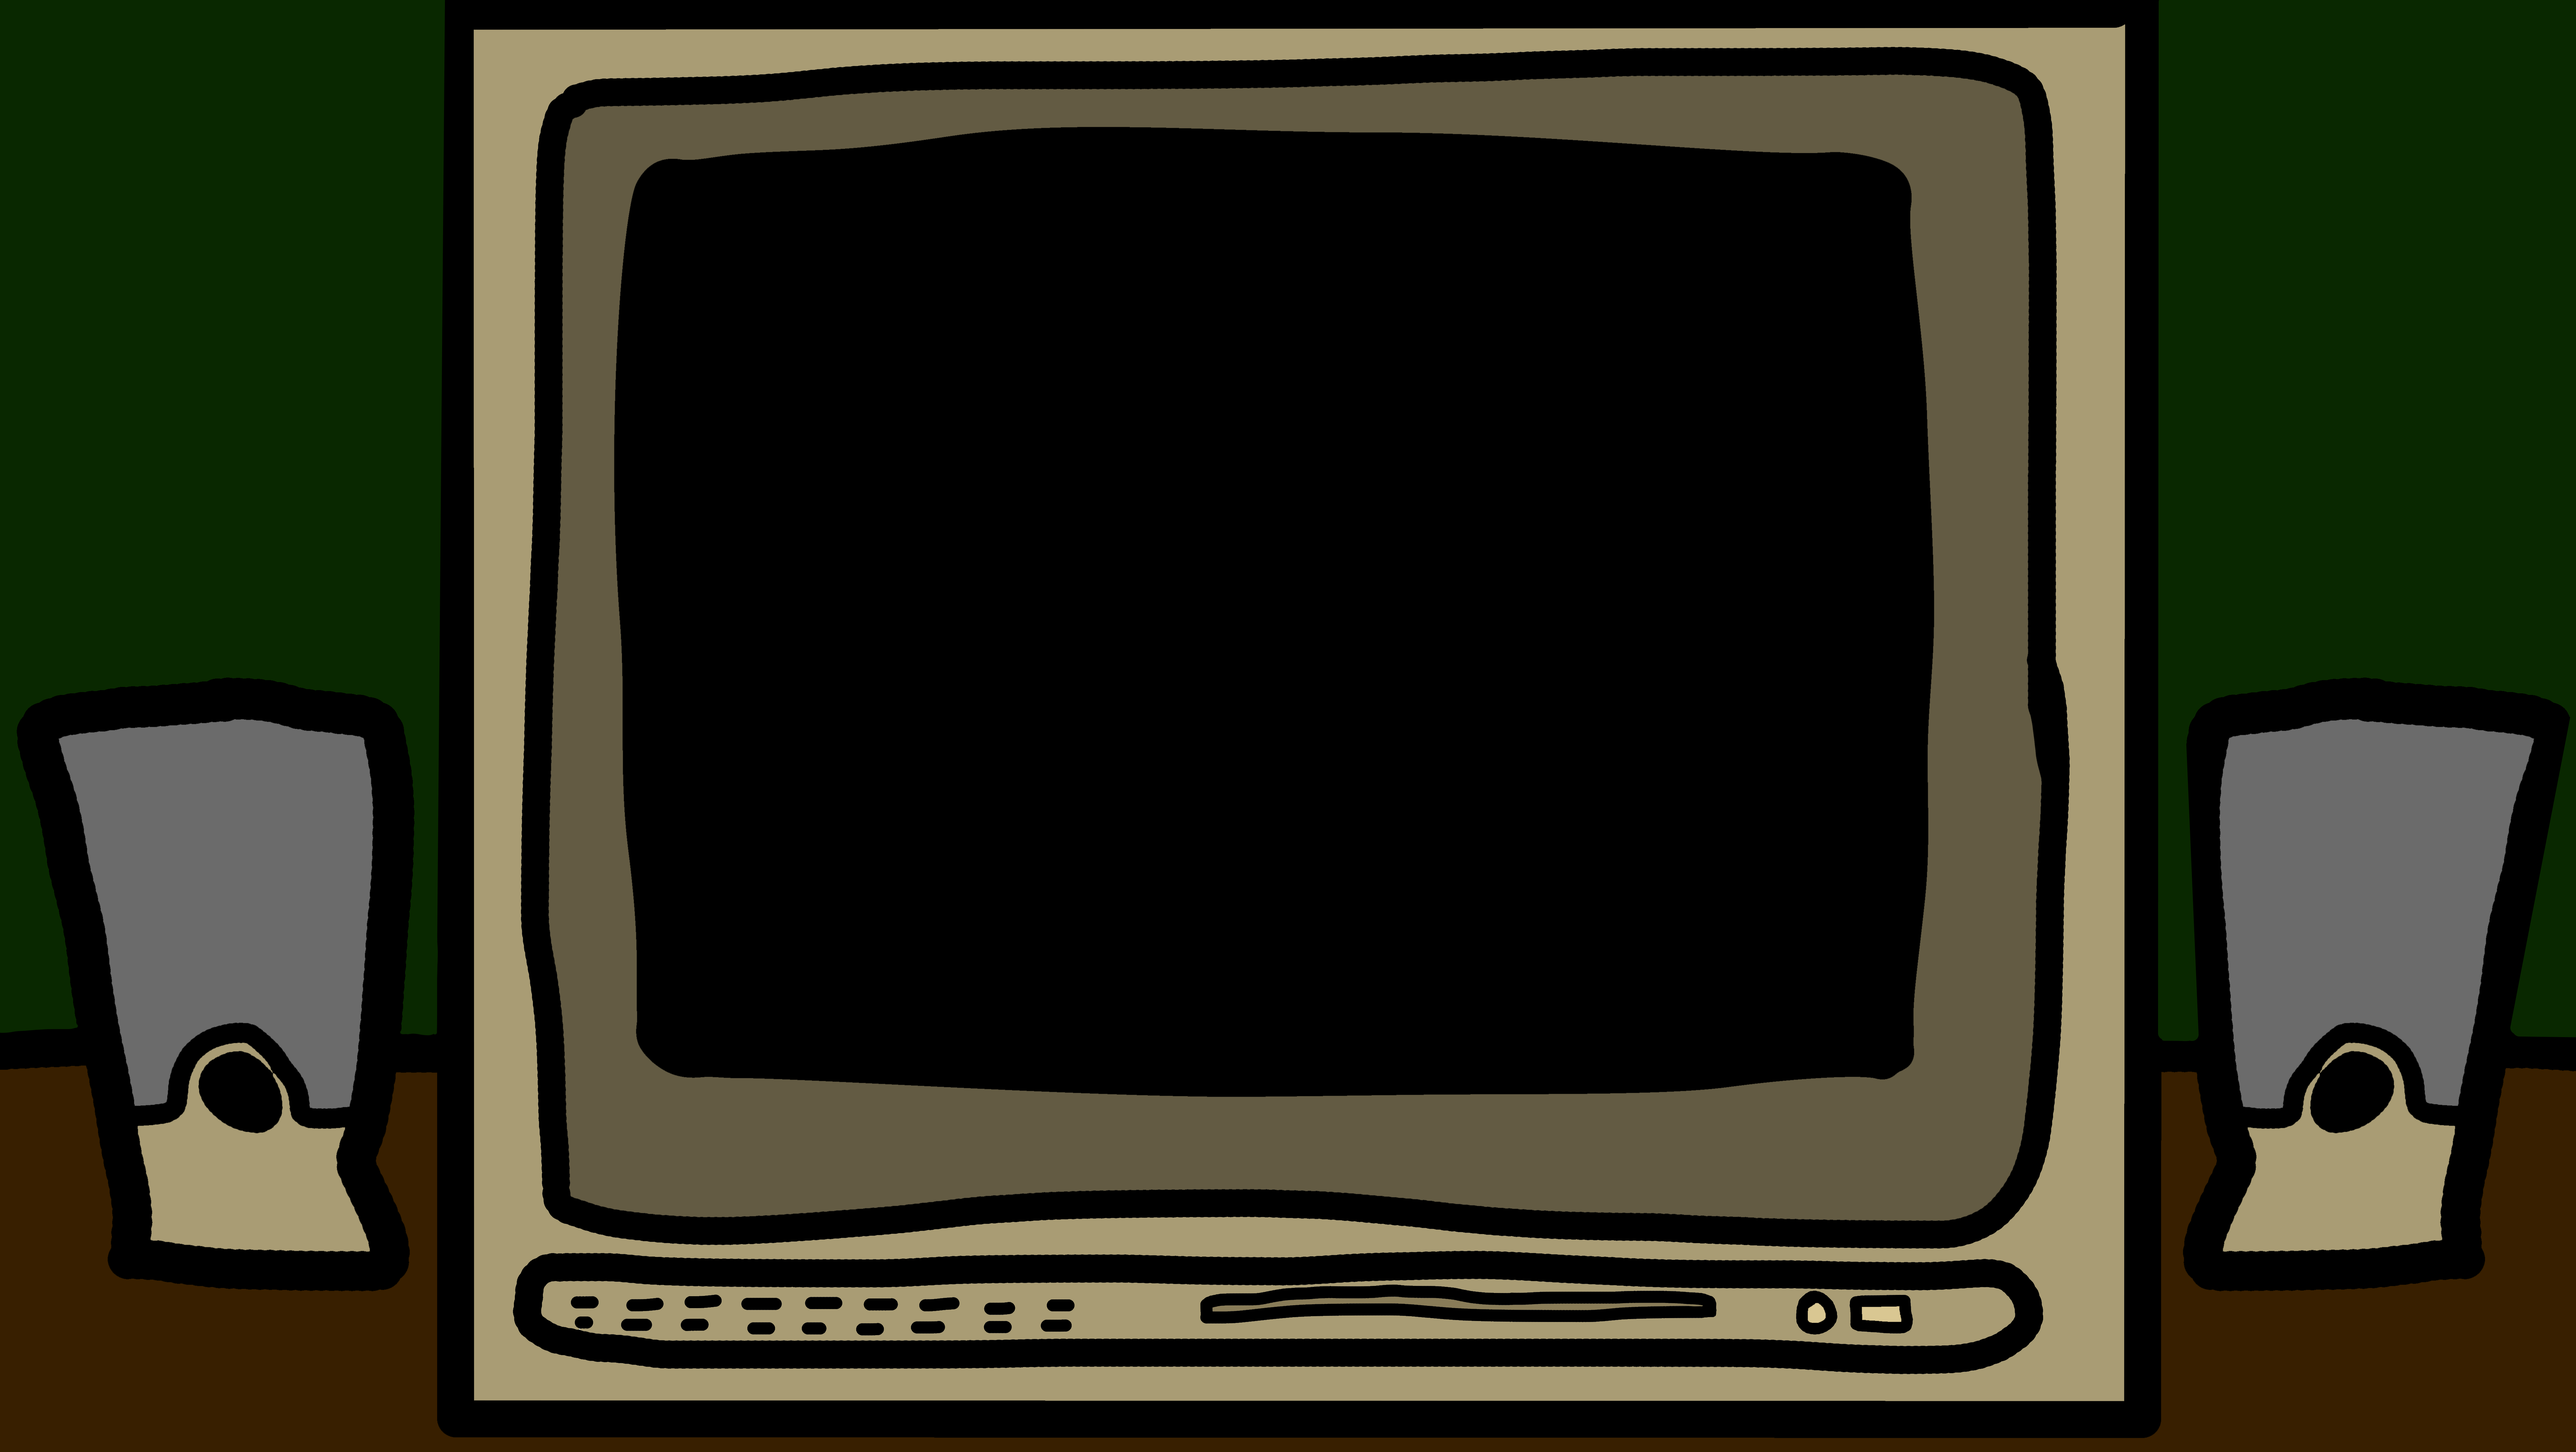
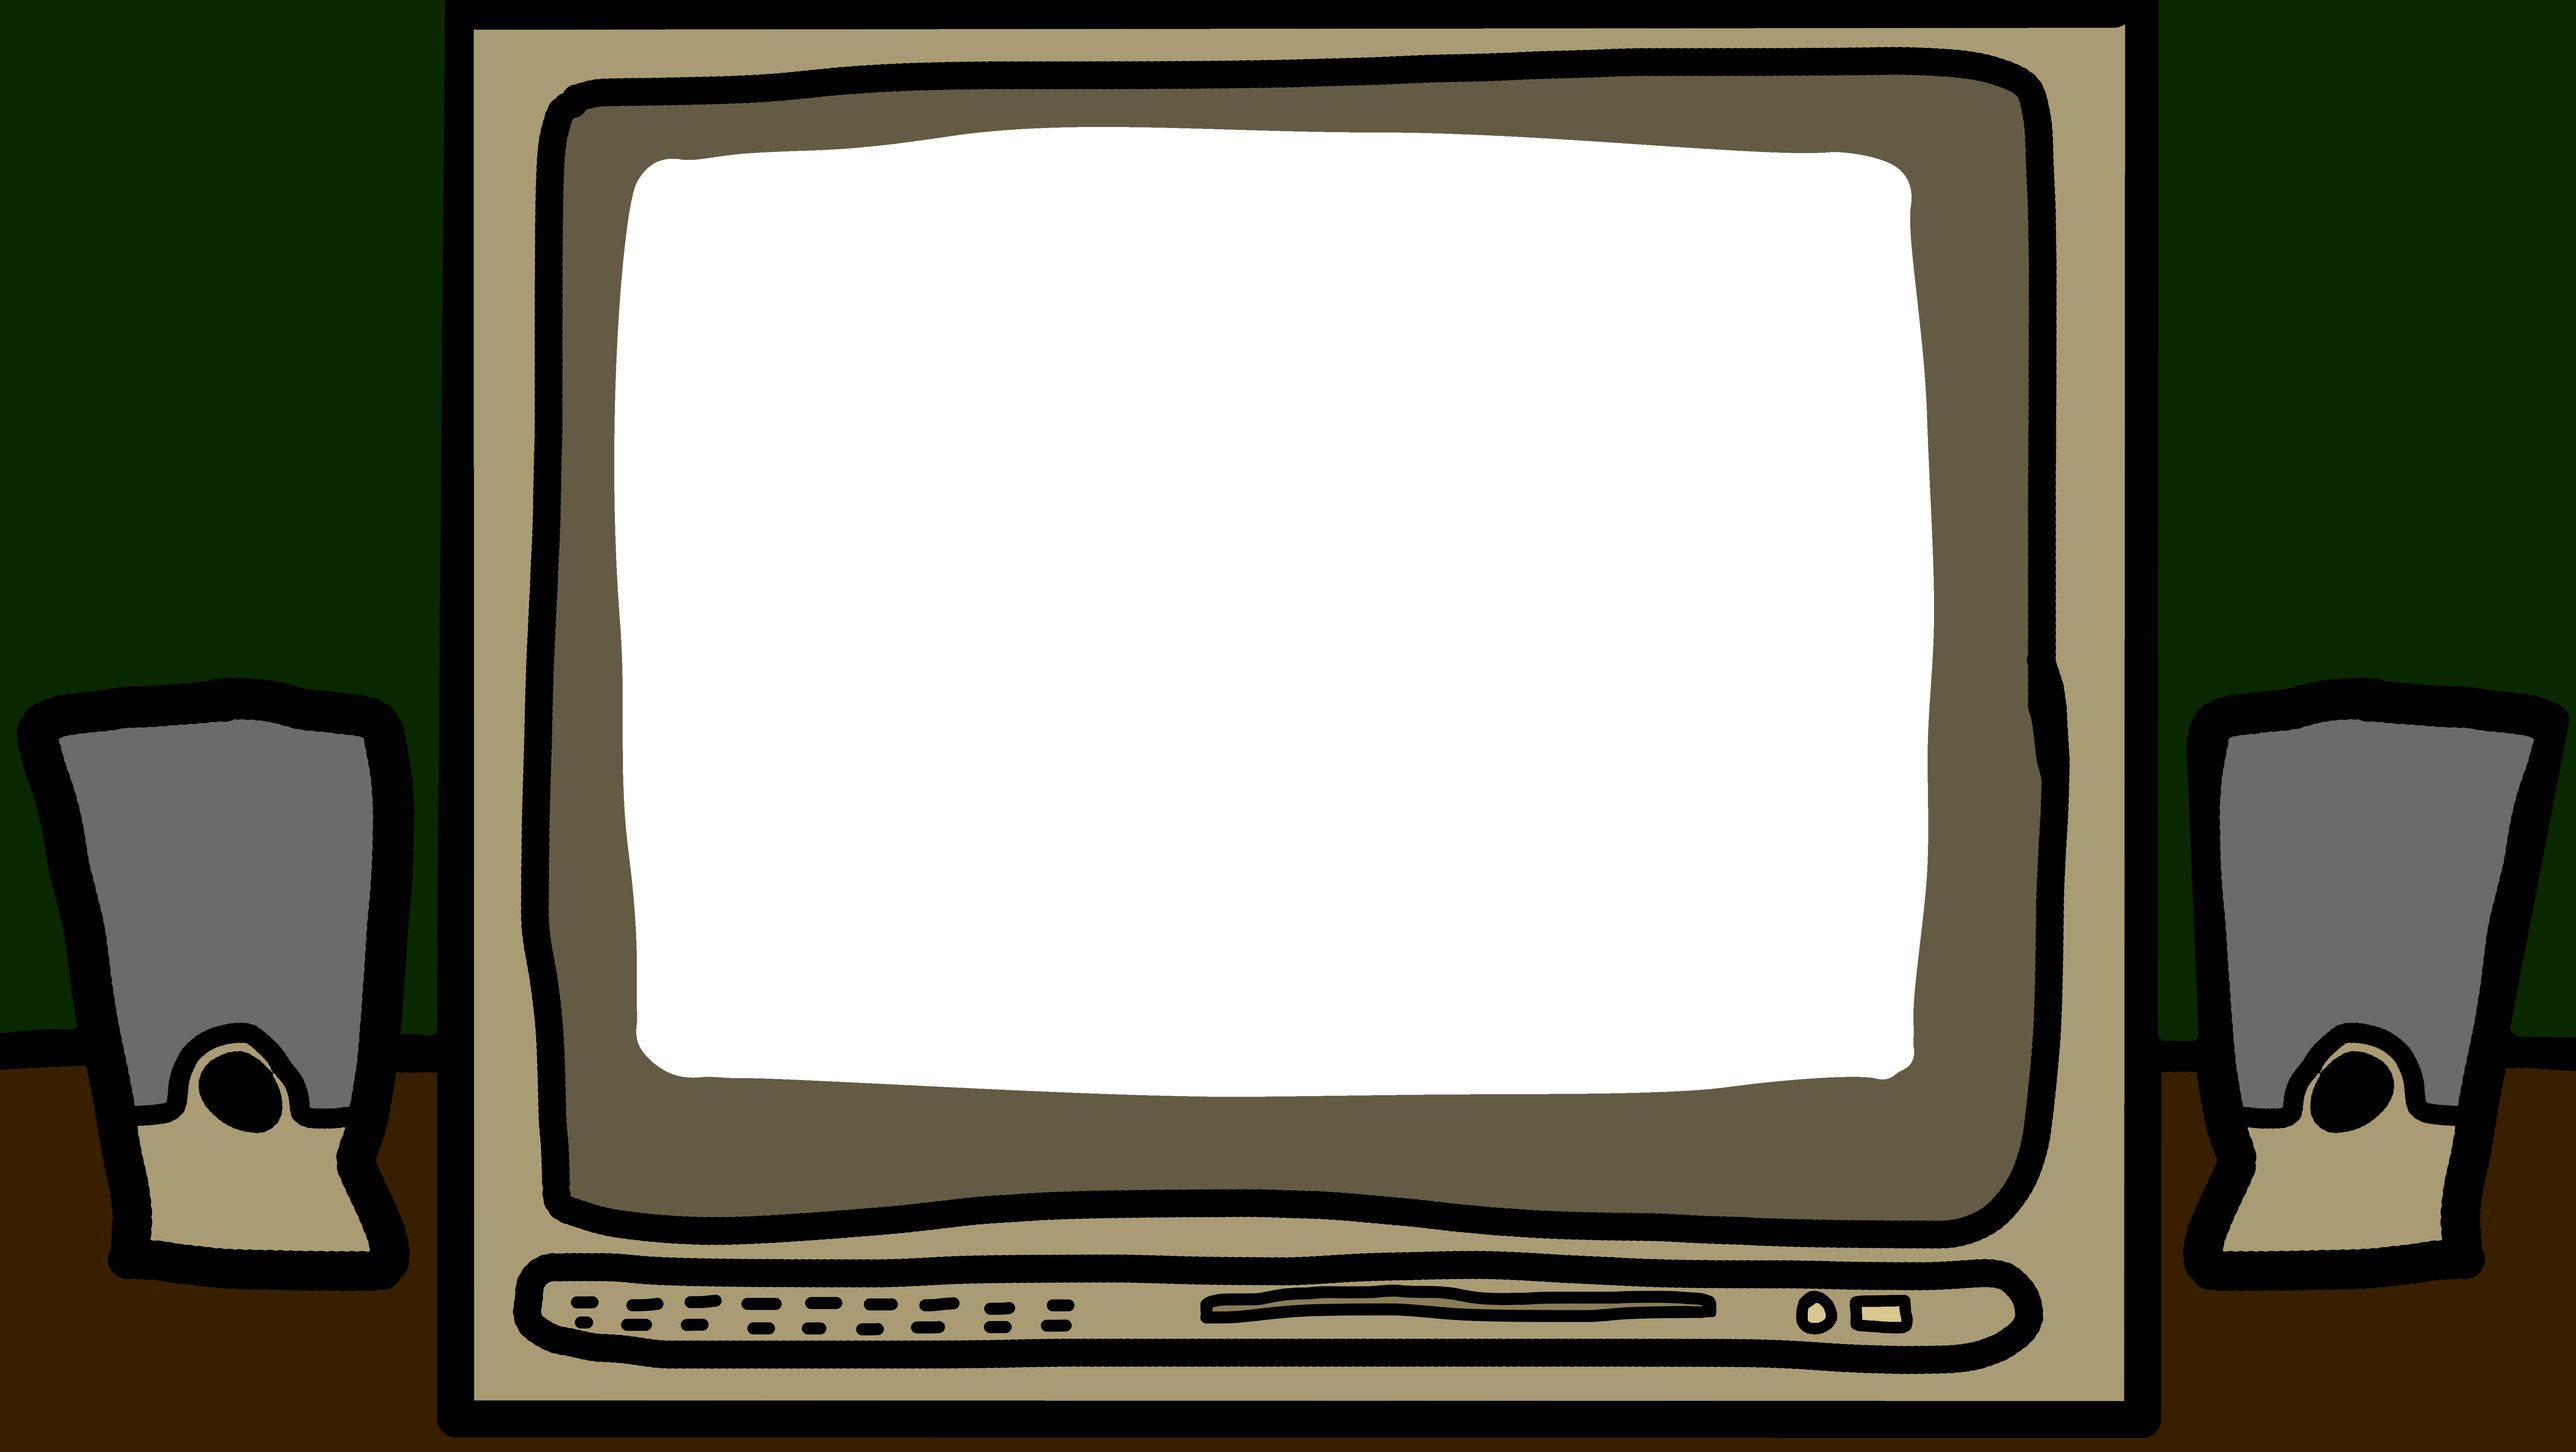
Reframe forums TV art in front with a black CRT screen and wiggle filter
Swaps in new bezel art with a transparent screen cutout, moves it above
the terminal so it frames the widget instead of sitting behind it
(pointer-events already off, so clicks still pass through), and gives
the terminal an opaque black backdrop to fill that cutout. Adds an
animated SVG displacement filter on the scrollable content so the CRT
static appears to wiggle the widget's lines underneath it. Also aligns
the forum scroll rail's top with the header logo instead of the nav,
and shortens the videos.html channel-switch static from 1.3s to 1s.

diff --git a/forums.html b/forums.html
@@ -20,9 +20,9 @@
 <link rel="apple-touch-icon" sizes="180x180" href="/apple-touch-icon.png">
 <link rel="icon" type="image/png" sizes="32x32" href="/favicon-32x32.png">
 <link rel="icon" type="image/png" sizes="16x16" href="/favicon-16x16.png">
-<link rel="preload" as="image" href="/forums-page-desktop.png" media="(min-width: 861px)">
-<link rel="preload" as="image" href="/forums-page-mobile.png?v=2" media="(max-width: 860px)">
-<link rel="stylesheet" href="/forums.css?v=20">
+<link rel="preload" as="image" href="/forums-page-desktop.png?v=2" media="(min-width: 861px)">
+<link rel="preload" as="image" href="/forums-page-mobile.png?v=3" media="(max-width: 860px)">
+<link rel="stylesheet" href="/forums.css?v=21">
 <style>
   * { box-sizing: border-box; }
   html, body { position: fixed; inset: 0; width: 100%; height: 100%; margin: 0; overflow: hidden; background: #032d00; }
@@ -32,10 +32,14 @@
 </head>
 <body>
   <main class="forums-scene" aria-label="KNOBSOCK forums">
-    <picture>
-      <source media="(max-width: 860px)" srcset="/forums-page-mobile.png?v=2">
-      <img class="scene-art" src="/forums-page-desktop.png" alt="">
-    </picture>
+    <svg width="0" height="0" style="position:absolute" aria-hidden="true" focusable="false">
+      <filter id="crtWiggle" x="-20%" y="-20%" width="140%" height="140%" color-interpolation-filters="sRGB">
+        <feTurbulence type="fractalNoise" numOctaves="2" seed="7" result="crtNoise">
+          <animate attributeName="baseFrequency" dur="7s" values="0.006 0.09;0.01 0.12;0.006 0.09" repeatCount="indefinite"/>
+        </feTurbulence>
+        <feDisplacementMap in="SourceGraphic" in2="crtNoise" scale="3" xChannelSelector="R" yChannelSelector="G"/>
+      </filter>
+    </svg>
     <section id="terminal" aria-label="Forum computer screen">
       <div id="forumScroll" tabindex="0">
         <div class="terminal-content">
@@ -52,9 +56,13 @@
       </div>
       <div id="scrollRail"><button type="button" id="scrollUp" aria-label="Scroll forum up">▲</button><div id="scrollTrack"><div id="scrollThumb" role="scrollbar" tabindex="0" aria-label="Forum scroll" aria-controls="forumScroll" aria-orientation="vertical" aria-valuemin="0" aria-valuemax="100" aria-valuenow="0"></div></div><button type="button" id="scrollDown" aria-label="Scroll forum down">▼</button></div>
     </section>
+    <picture>
+      <source media="(max-width: 860px)" srcset="/forums-page-mobile.png?v=3">
+      <img class="scene-art" src="/forums-page-desktop.png?v=2" alt="">
+    </picture>
   </main>
 <script src="https://www.gstatic.com/firebasejs/10.13.2/firebase-app-compat.js"></script>
 <script src="https://www.gstatic.com/firebasejs/10.13.2/firebase-firestore-compat.js"></script>
-<script src="/forums.js?v=11"></script>
+<script src="/forums.js?v=12"></script>
 </body>
 </html>

diff --git a/forums.js b/forums.js
@@ -205,13 +205,13 @@
   let railHideTimer, railHovered = false, railDragging = false;
   function positionScrollRail() {
     const terminal = $("terminal");
-    const nav = terminal && terminal.querySelector(".forum-nav");
-    if (!terminal || !nav) return;
-    // Keep the arrow/track column aligned with the green rule beneath the
-    // Boards / Recent / Rules navigation, regardless of art scaling. offsetTop
-    // stays stable after a user scrolls the inner panel; a viewport rect does
-    // not, which had let the rail retain its old position on some phones.
-    const top = Math.max(0, nav.offsetTop + nav.offsetHeight);
+    const logo = terminal && terminal.querySelector(".forum-logo");
+    if (!terminal || !logo) return;
+    // Keep the arrow/track column aligned with the top of the header logo,
+    // regardless of art scaling. offsetTop stays stable after a user scrolls
+    // the inner panel; a viewport rect does not, which had let the rail
+    // retain its old position on some phones.
+    const top = Math.max(0, logo.offsetTop);
     rail.style.marginTop = Math.round(top) + "px";
   }
   function hideRailSoon() {
@@ -259,7 +259,7 @@
     { passive: true },
   );
   new ResizeObserver(syncScroll).observe(scroll);
-  new ResizeObserver(positionScrollRail).observe(document.querySelector(".forum-nav"));
+  new ResizeObserver(positionScrollRail).observe(document.querySelector(".forum-logo"));
   new ResizeObserver(positionScrollRail).observe(document.querySelector(".terminal-content"));
   const forumLogo = document.querySelector(".forum-logo img");
   if (forumLogo) forumLogo.addEventListener("load", positionScrollRail);

diff --git a/forums.css b/forums.css
@@ -11,6 +11,7 @@
 }
 #terminal {
   position: absolute;
+  background: #000;
   color: #fff;
   font-family: Terminal, "Courier New", monospace;
   line-height: 1.45;
@@ -46,6 +47,7 @@
   scrollbar-width: none;
   overscroll-behavior: contain;
   outline-offset: -3px;
+  filter: url(#crtWiggle);
 }
 #forumScroll::-webkit-scrollbar {
   display: none;

diff --git a/videos.html b/videos.html
@@ -776,7 +776,7 @@
           clearInterval(channelSwitchTimer);
         }
       }, 200);
-    }, 1300);
+    }, 1000);
   }
 
   remoteSelectBtn.addEventListener('click', function (e) {
